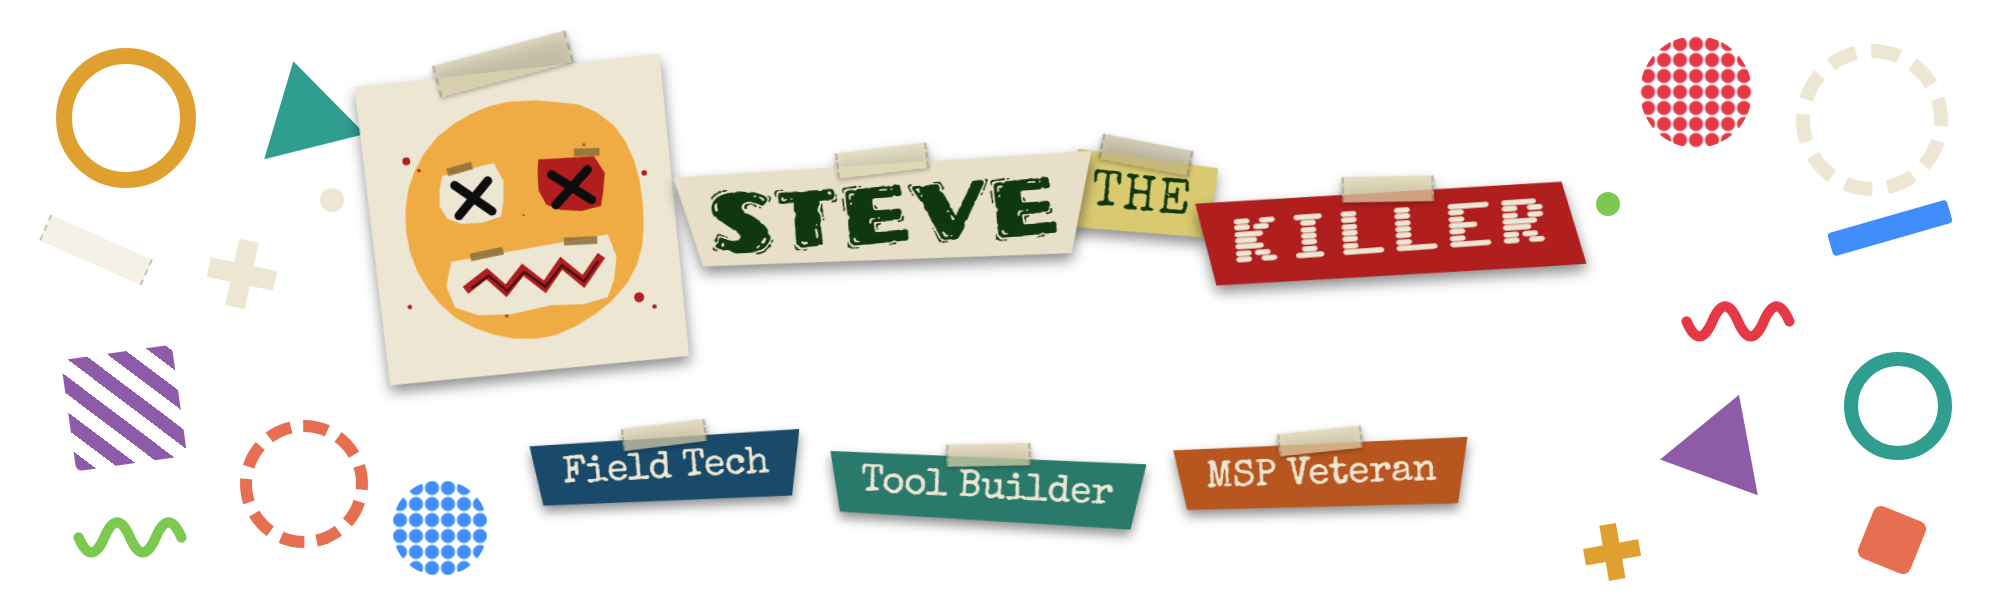
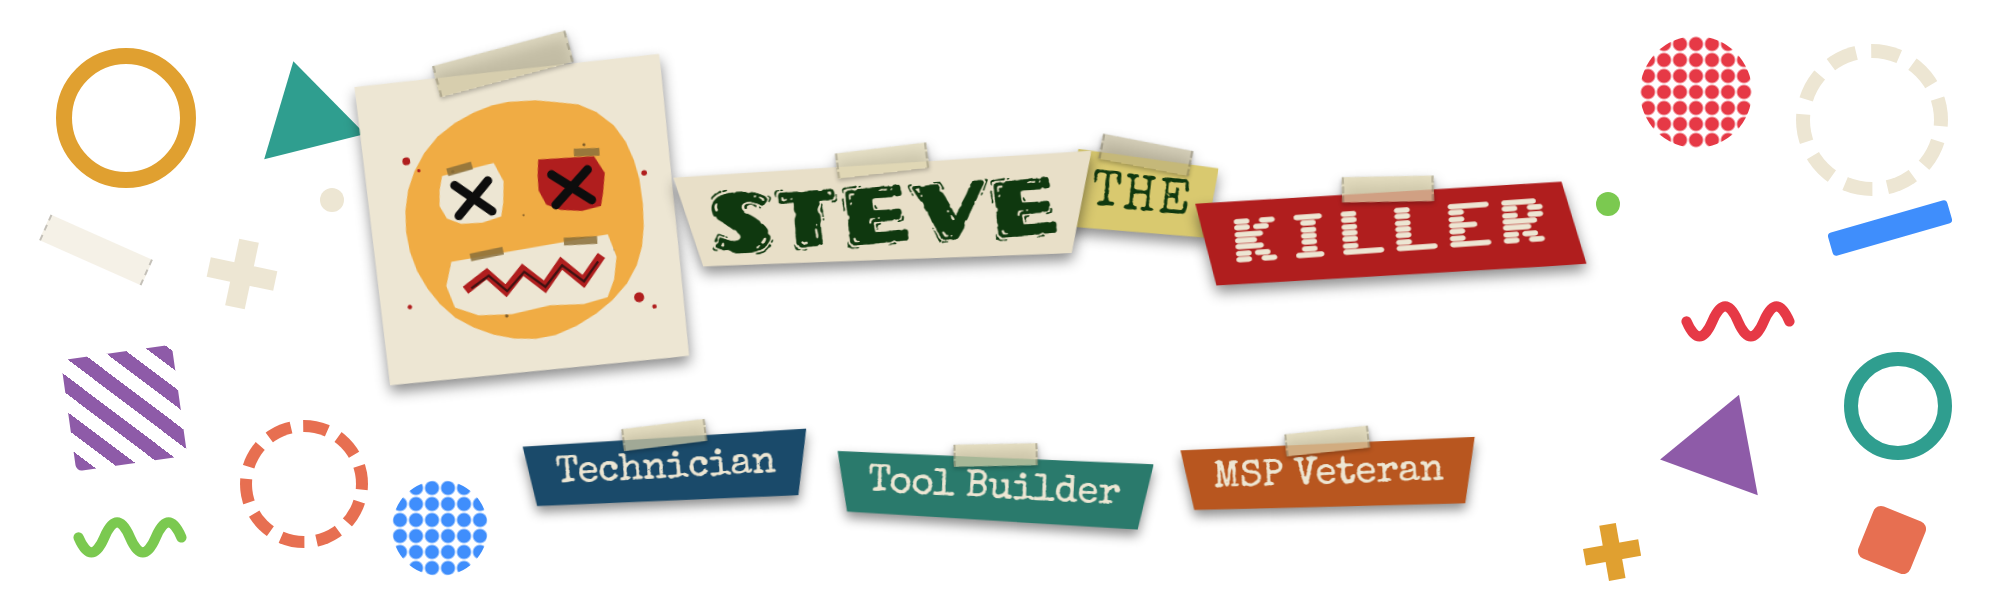
updated the header pill and bio paragraph for the AI Solutions Specialist role

Changed region(s): [[0.248, 0.72, 0.744, 0.9]]

diff --git a/README.md b/README.md
@@ -12,7 +12,7 @@
 
 I grew up taking things apart to see how they worked, and somewhere along the way I learned to enjoy putting them back together too. I've been building for the web since the 90s, when a personal site meant hand-written HTML and a lot of trial and error. Around 2008 I was designing GTK 2.0 themes for fun and posting them on Ubuntu Forums under the name **Saint Angeles**. That turned into roughly eight years of full-stack development, building sites and applications end to end, before the work pulled me toward the systems underneath them.
 
-Now I'm a field tech at an MSP, handling networking, sysadmin work, and endpoint support. At home I run a Proxmox-based homelab with Home Assistant, OpenWrt, and whatever I'm currently pulling apart.
+After years as a field tech across several companies, handling networking, sysadmin work, and endpoint support, I now work as an AI Solutions Specialist on an MSP's internal AI engineering team, building the tooling I used to wish I had in the field. I also run a Proxmox-based homelab with Home Assistant, OpenWrt, and whatever I'm currently pulling apart.
 
 Most software today is bloated, tracks you, and drags in dependencies nobody asked for. I don't think you should need an account to use a tool. The projects I build are my answer to that: single executables, no telemetry, no subscriptions, no bullshit. If that sounds like your kind of software, check out [KillerTools.net](https://killertools.net).
 
